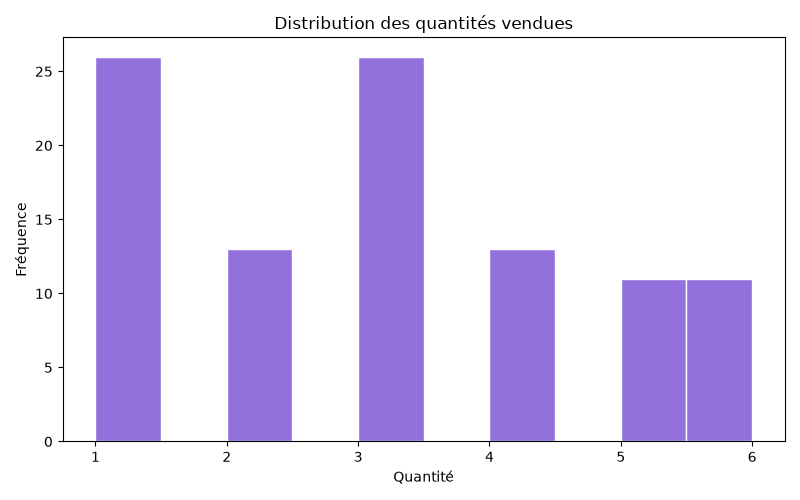
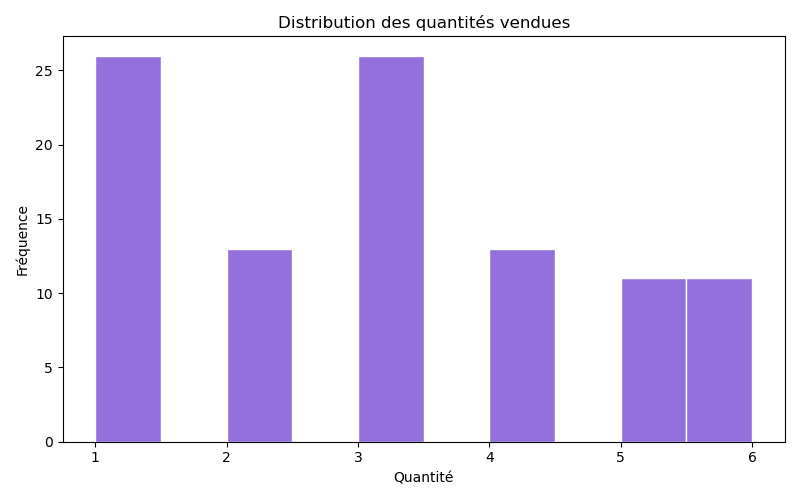
Mon commit

diff --git a/notebooks/02_bivarie.py b/notebooks/02_bivarie.py
@@ -1,0 +1,63 @@
+import pandas as pd
+import numpy as np
+import matplotlib.pyplot as plt
+import seaborn as sns
+
+#  Séparateur ";"
+df = pd.read_csv("../data/ventes_supermarche.csv", sep=';')
+
+# Conversion de la date
+df['date'] = pd.to_datetime(df['date'])
+
+# Colonne chiffre d'affaires 
+df['chiffre_affaires'] = df['prix_unitaire'] * df['quantite']
+
+df.head()
+
+# Q1 — Corrélation prix_unitaire / quantité
+
+corr = df['prix_unitaire'].corr(df['quantite'])
+print(f"Corrélation : {corr:.3f}")
+
+sns.barplot(data=df, x='prix_unitaire', y='quantite', hue='categorie', alpha=0.7, errorbar=None)
+plt.title("Prix unitaire vs Quantité vendue")
+plt.xlabel("Prix unitaire")
+plt.ylabel("Quantité")
+plt.tight_layout()
+plt.show()
+
+
+# Q2 — Catégorie qui génère le plus de CA
+
+ca_cat = df.groupby('categorie')['chiffre_affaires'].sum().sort_values(ascending=True)
+
+ca_cat.plot(kind='barh', color='coral', edgecolor='white', figsize=(8, 5))
+plt.title("Chiffre d'affaires total par catégorie")
+plt.xlabel("CA")
+plt.tight_layout()
+plt.show()
+
+# Afficher le top
+print(ca_cat.sort_values(ascending=False))
+
+# Q3 — Le prix influence-t-il les ventes ?
+
+# Quantité moyenne vendue par catégorie + prix moyen
+analyse = df.groupby('categorie').agg(
+    prix_moyen=('prix_unitaire', 'mean'),
+    quantite_moyenne=('quantite', 'mean')
+).sort_values('prix_moyen', ascending=False)
+
+print(analyse)
+
+# Visualisation double
+fig, axes = plt.subplots(1, 2, figsize=(12, 5))
+
+analyse['prix_moyen'].plot(kind='barh', ax=axes[0], color='steelblue')
+axes[0].set_title("Prix moyen par catégorie")
+
+analyse['quantite_moyenne'].plot(kind='barh', ax=axes[1], color='salmon')
+axes[1].set_title("Quantité moyenne par catégorie")
+
+plt.tight_layout()
+plt.show()

diff --git a/notebooks/04_probabilite.py b/notebooks/04_probabilite.py
@@ -1,0 +1,29 @@
+import pandas as pd
+import numpy as np
+import matplotlib.pyplot as plt
+import seaborn as sns
+
+df = pd.read_csv("../data/ventes_supermarche.csv", sep=';')
+
+# Préparation des données
+df['date'] = pd.to_datetime(df['date'])
+df['chiffre_affaires'] = df['prix_unitaire'] * df['quantite']
+
+# Q1 — P(client achète un produit alimentaire)
+categories_alim = ['Fruits & Légumes', 'Boulangerie', 'Épicerie Sèche', 
+                   'Produits Laitiers', 'Boucherie']
+
+p_alim = df['categorie'].isin(categories_alim).mean()
+print(f"P(produit alimentaire) = {p_alim:.3f} soit {p_alim*100:.1f}%")
+
+# Q2 — P(produit vendu est une boisson)
+p_boisson = (df['categorie'] == 'Boissons').mean()
+print(f"P(Boisson) = {p_boisson:.3f} soit {p_boisson*100:.1f}%")
+
+# Q3 — P(vente > moyenne journalière)
+ca_par_jour = df.groupby(df['date'].dt.date)['chiffre_affaires'].sum()
+moyenne_jour = ca_par_jour.mean()
+print(f"CA moyen journalier : {moyenne_jour:.2f}")
+
+p_sup = (df['chiffre_affaires'] > moyenne_jour).mean()
+print(f"P(vente > moyenne journalière) = {p_sup:.3f} soit {p_sup*100:.1f}%")